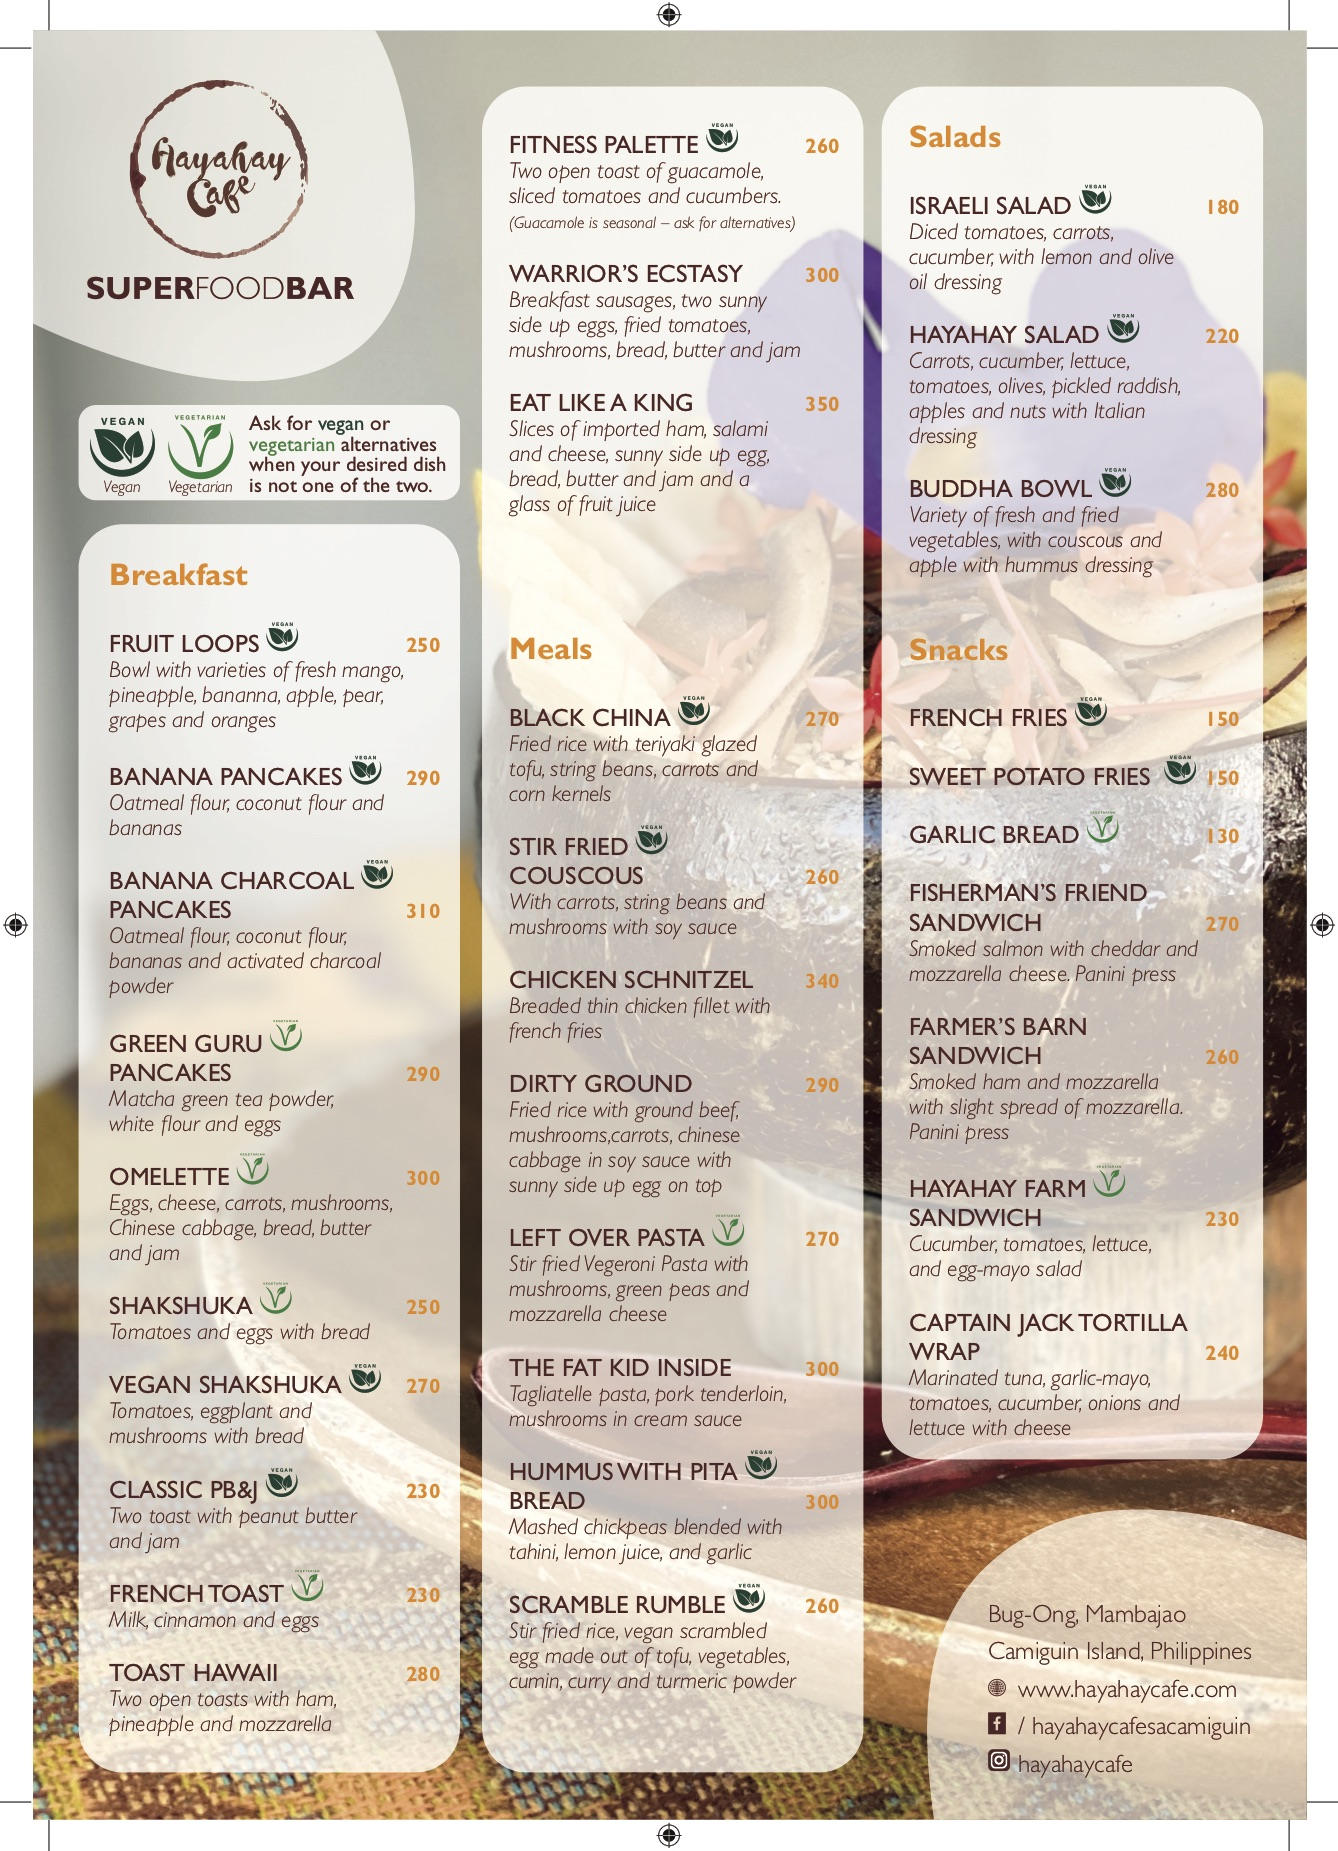
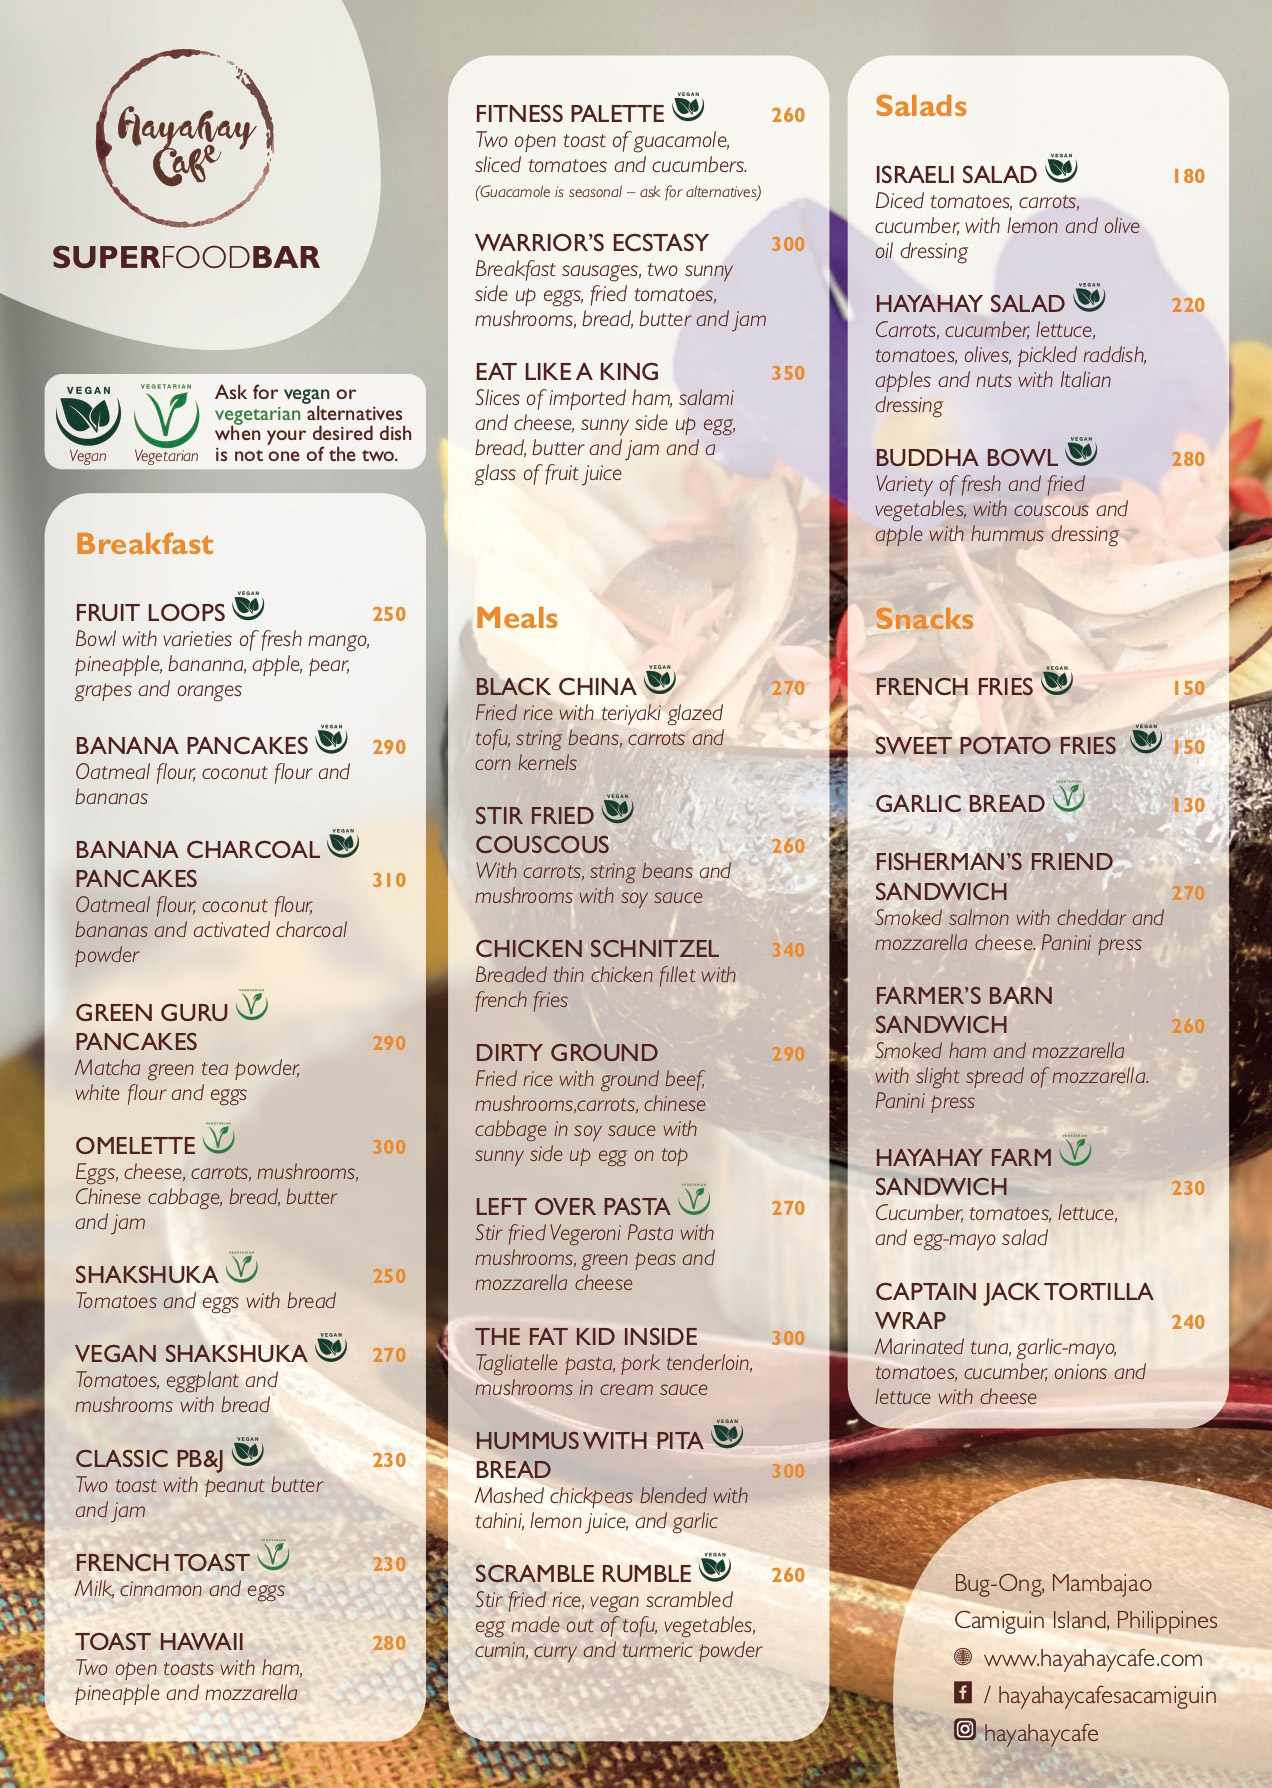
update menu images

diff --git a/src/templates/MenuPage.js b/src/templates/MenuPage.js
@@ -122,7 +122,7 @@ export const pageQuery = graphql`
                 images {
                     src {
                         childImageSharp {
-                            fluid(maxWidth: 1156, maxHeight: 1600) {
+                            fluid(maxWidth: 1272, maxHeight: 1788) {
                                 ...GatsbyImageSharpFluid
                             }
                         }
